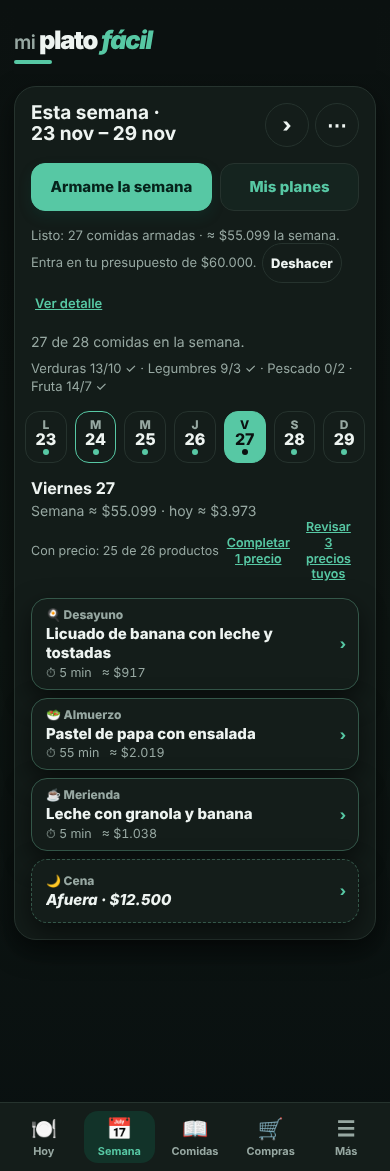
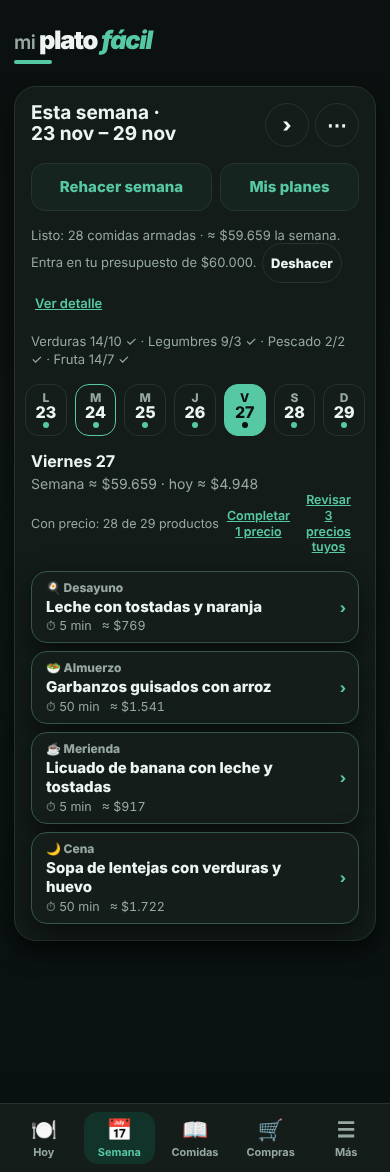
Etapa 48: ajustes de las revisiones (marcas viejas, día siguiente, contador)
Claude-Session: https://claude.ai/code/session_013apjtg9s7WhVBtjMzXPnF4

diff --git a/pruebas/r6e48_semana.js b/pruebas/r6e48_semana.js
@@ -31,7 +31,7 @@
   await abrirHueco("lunes|cena");
   ok("R6-F-01 la hoja de una comida (Semana) tiene 'Pasar a otro día'", !!botonHoja(/^Pasar a otro día$/), H.botonesHoja().join(" | "));
   await tocar(botonHoja(/^Pasar a otro día$/), 300);
-  ok("R6-F-01 'Pasar a otro día' pide día y comida", H.textoHoja().includes("Pasar a otro día") && !!$("hojaPasarDia") && !!$("hojaPasarSlot") && $("hojaPasarDia").value === "lunes" && $("hojaPasarSlot").value === "cena");
+  ok("R6-F-01 'Pasar a otro día' pide día y comida", H.textoHoja().includes("Pasar a otro día") && !!$("hojaPasarDia") && !!$("hojaPasarSlot") && $("hojaPasarDia").value === "martes" && $("hojaPasarSlot").value === "cena");  // arranca en el día siguiente
   await elegirEn("jueves", "cena");
   await tocar(botonHoja(/^Pasar$/), 400);
   const p1 = plan();
@@ -45,6 +45,7 @@
   // mismo hueco: error en la hoja, no cambia nada
   await abrirHueco("miercoles|cena");
   await tocar(botonHoja(/^Pasar a otro día$/), 300);
+  await elegirEn("miercoles", "cena");
   await tocar(botonHoja(/^Pasar$/), 300);
   ok("R6-F-01 pasar al mismo hueco no cambia nada y la hoja explica por qué", /Elegí otro día u otra comida/.test(H.textoHoja()) && JSON.stringify(plan()) === JSON.stringify(p2));
   await H.cerrarHoja();
@@ -96,6 +97,12 @@
   await tocar(botonHoja(/^Guardar$/), 400);
   const itemsDespues = ev("shoppingDisplayItems().map(x => x.name).sort().join(',')"), costoDespues = ev("costoSemanaPlan() && costoSemanaPlan().total");
   ok("R6-F-02 un hueco afuera no suma a la lista ni al presupuesto (los ingredientes de esa comida salen de la lista y el costo baja)", plan().jueves.cena === null && /Lentejas/.test(itemsAntes) && !/Lentejas/.test(itemsDespues) && /Pollo/.test(itemsDespues) && costoDespues < costoAntes, JSON.stringify({ itemsAntes, itemsDespues, costoAntes, costoDespues }));
+  {
+    const todos = []; for (const d of H.DIAS) for (const sl of H.SLOTS) if (!(d === "lunes" && sl === "desayuno")) todos.push([d, sl, A]);
+    await abrir({ [AJ]: JSON.stringify({ [semanaLunes]: { afuera: { "lunes|desayuno": {} } } }) }, todos);
+    const hint = $("planHint");
+    ok("R6-F-02 un hueco afuera cuenta como resuelto en la cabecera de Semana: con 27 comidas y 1 afuera no dice 'faltan' ni '27 de 28', y 'Armame la semana' no pasa a ser el botón principal", hint.hidden && !/27 de 28/.test(norm(hint.innerText)) && !!$("planList"), norm(hint.innerText) + " hidden=" + hint.hidden);
+  }
   await abrir({}, [["lunes", "cena", A]]);
   await abrirHueco("martes|cena"); await tocar(botonHoja(/^Comemos afuera$/), 300); await tocar(botonHoja(/^Guardar$/), 400);
   ev('openTab("semana")'); await espera(200);
@@ -104,12 +111,16 @@
   ok("R6-F-02 Armame la semana no llena un hueco afuera (ni con 'Rehacer semana')", trasArmar.martes.cena === null && !!afueraSigue && trasArmar.lunes.almuerzo !== null && DIAS_OTROS(trasArmar), JSON.stringify(trasArmar.martes));
   function DIAS_OTROS(p) { return ["miercoles", "jueves", "viernes"].every(d => p[d].cena) }
   await ev('(async () => { await ArmameSemana.correr("todo") })()'); await espera(600);
-  ok("R6-F-02 'Rehacer semana' (todo) tampoco lo llena", plan().martes.cena === null && !!J(AJ)[semanaLunes].afuera["martes|cena"]);
+  ok("R6-F-02 'Rehacer semana' (todo) tampoco lo llena", plan().martes.cena === null && !!(J(AJ) || {})[semanaLunes] && !!J(AJ)[semanaLunes].afuera["martes|cena"], JSON.stringify(plan().martes) + " " + localStorage.getItem(AJ));
   // gasto en el Registro, separado de las compras
   await abrir({ ...H.PRES(60000), [AJ]: JSON.stringify({ [semanaLunes]: { afuera: { "jueves|cena": { gasto: 12500 }, "viernes|cena": { gasto: 8000 }, "sabado|almuerzo": {} } } }) });
   ev('openTab("mas"); abrirRegistro()'); await espera(400);
   const registro = norm($("registro").innerText);
   ok("R6-F-02 el Registro muestra el gasto de comidas afuera de la semana, separado de las compras", /Comidas afuera esa semana: 3 · \$20\.500 \(en 1 no lo anotaste\)\. Va aparte de las compras\./.test(registro), registro.slice(registro.indexOf("Comidas afuera") - 20, registro.indexOf("Comidas afuera") + 140));
+  // una marca vieja (el hueco ya tiene comida) no cuenta en el Registro
+  await abrir({ [AJ]: JSON.stringify({ [semanaLunes]: { afuera: { "jueves|cena": { gasto: 999 }, "viernes|cena": {} } } }) }, [["jueves", "cena", A]]);
+  ev('openTab("mas"); abrirRegistro()'); await espera(400);
+  ok("R6-F-02 una marca 'Afuera' vieja (el hueco ya tiene una comida) no cuenta en el Registro", /Comidas afuera esa semana: 1 · sin gasto anotado/.test(norm($("registro").innerText)), norm($("registro").innerText).slice(-200));
   // Ya no comemos afuera
   await abrir({ [AJ]: JSON.stringify({ [semanaLunes]: { afuera: { "jueves|cena": { gasto: 12500 } } } }) });
   await abrirHueco("jueves|cena");

diff --git a/index.html b/index.html
@@ -7102,6 +7102,7 @@ function renderPlan(){
     // (El módulo SemanaAjustes se carga después de este archivo: si todavía no está, no hay marcas.)
     let afuera=0;
     try{afuera=SLOTS.filter(([sl])=>!(plan[key]&&plan[key][sl])&&SemanaAjustes.afuera(key,sl)).length}catch(e){}
+    total+=afuera;
     if(n+afuera>=4)b.classList.add("es-completo");
     return b
   });
@@ -17243,7 +17244,7 @@ var ArmameSemana=(function(){
     for(const [dia] of DAYS)for(const slot of ORDEN){
       const id=(plan[dia]||{})[slot];
       // Etapa 48: un hueco marcado "Afuera" no se llena.
-      if(typeof SemanaAjustes!=="undefined"&&SemanaAjustes.afuera(dia,slot))continue;
+      if(!id&&typeof SemanaAjustes!=="undefined"&&SemanaAjustes.afuera(dia,slot))continue;
       if(modo==="todo"||!id||!items.has(id))aFillar.push([dia,slot])
     }
     const salvo=new Set(aFillar.map(([d,s])=>d+"|"+s)),sem=leerSemana(plan,salvo),memo=new Map(),sd=semilla(modo),r=azar(sd);
@@ -18102,14 +18103,16 @@ cargar(){
     return {}
   }
 },
-guardar(todo){
+guardar(todo,editada){
   for(const k of Object.keys(todo)){
     const w=todo[k];
     if(w.afuera&&!Object.keys(w.afuera).length)delete w.afuera;
     if(w.sobra&&!Object.keys(w.sobra).length)delete w.sobra;
     if(!Object.keys(w).length)delete todo[k]
   }
-  const mantener=Object.keys(todo).sort().reverse().slice(0,12),out=Object.fromEntries(mantener.sort().map(k=>[k,todo[k]]));
+  const mantener=Object.keys(todo).sort().reverse().slice(0,12);
+  if(editada&&todo[editada]&&!mantener.includes(editada))mantener.push(editada);
+  const out=Object.fromEntries(mantener.sort().map(k=>[k,todo[k]]));
   if(!SemanaAjustes.validAjustes(out))throw Error("No se pudo guardar el cambio de la semana.");
   if(Object.keys(out).length)localStorage.setItem(SEMANA_AJUSTES_KEY,JSON.stringify(out));
   else localStorage.removeItem(SEMANA_AJUSTES_KEY)
@@ -18134,7 +18137,18 @@ cambiar(f,lunes){
   todo[k]={
     afuera:act.afuera,sobra:act.sobra
   };
-  SemanaAjustes.guardar(todo)
+  SemanaAjustes.guardar(todo,k)
+},
+// El plan de una semana (para saber qué huecos siguen vacíos): esta, la que viene o una copia fechada; null si no se conoce.
+planDe(lunes){
+  try{
+    if(lunes===Semana.semanaActual())return Semana.planDeLaSemana("esta");
+    if(lunes===Semana.lunesSiguiente())return Semana.planDeLaSemana("proxima");
+    const w=loadDatedWeeks()[lunes];
+    return w&&w.plan?Semana.migratePlan(w.plan):null
+  }catch(e){
+    return null
+  }
 },
 // ---- Afuera ----
 afuera(dia,slot,lunes){
@@ -18188,7 +18202,7 @@ limpiarAfuera(dia,slot){
 },
 // El gasto de comidas afuera de una semana, aparte de las compras: {cantidad, total, sinGasto}.
 resumenAfuera(lunes){
-  const h=SemanaAjustes.huecosAfuera(lunes,null);
+  const h=SemanaAjustes.huecosAfuera(lunes||SemanaAjustes.lunesDelContexto(),SemanaAjustes.planDe(lunes||SemanaAjustes.lunesDelContexto()));
   return {
     cantidad:h.length,total:h.reduce((t,x)=>t+(x.gasto||0),0),sinGasto:h.filter(x=>x.gasto===null).length
   }
@@ -18306,7 +18320,8 @@ abrirPasar(dia,slot){
   const plan=loadPlan();
   if(!(plan[dia]||{})[slot])return;
   const fila=ce("div","pantry-item-qty");
-  fila.append(Comidas.campoDeHoja("hojaPasarDia","Día",DAYS,dia),Comidas.campoDeHoja("hojaPasarSlot","Comida",SLOTS.map(([v,t])=>[v,t.replace(/^\S+\s/,"")]),slot));
+  // Arranca en el día siguiente (el domingo, en el lunes): así el primer "Pasar" que se toca ya hace algo.
+  fila.append(Comidas.campoDeHoja("hojaPasarDia","Día",DAYS,SemanaAjustes.diaSiguiente(dia)||"lunes"),Comidas.campoDeHoja("hojaPasarSlot","Comida",SLOTS.map(([v,t])=>[v,t.replace(/^\S+\s/,"")]),slot));
   // Si algo no se puede (por ejemplo, el mismo hueco), la hoja muestra el motivo y queda abierta.
   hoja.abrir({
     titulo:"Pasar a otro día",contenido:[fila],botones:[["Pasar","button--primary",()=>{

diff --git a/fuente/codigo/48-semana-ajustes.js b/fuente/codigo/48-semana-ajustes.js
@@ -28,14 +28,16 @@ cargar(){
     return {}
   }
 },
-guardar(todo){
+guardar(todo,editada){
   for(const k of Object.keys(todo)){
     const w=todo[k];
     if(w.afuera&&!Object.keys(w.afuera).length)delete w.afuera;
     if(w.sobra&&!Object.keys(w.sobra).length)delete w.sobra;
     if(!Object.keys(w).length)delete todo[k]
   }
-  const mantener=Object.keys(todo).sort().reverse().slice(0,12),out=Object.fromEntries(mantener.sort().map(k=>[k,todo[k]]));
+  const mantener=Object.keys(todo).sort().reverse().slice(0,12);
+  if(editada&&todo[editada]&&!mantener.includes(editada))mantener.push(editada);
+  const out=Object.fromEntries(mantener.sort().map(k=>[k,todo[k]]));
   if(!SemanaAjustes.validAjustes(out))throw Error("No se pudo guardar el cambio de la semana.");
   if(Object.keys(out).length)localStorage.setItem(SEMANA_AJUSTES_KEY,JSON.stringify(out));
   else localStorage.removeItem(SEMANA_AJUSTES_KEY)
@@ -60,7 +62,18 @@ cambiar(f,lunes){
   todo[k]={
     afuera:act.afuera,sobra:act.sobra
   };
-  SemanaAjustes.guardar(todo)
+  SemanaAjustes.guardar(todo,k)
+},
+// El plan de una semana (para saber qué huecos siguen vacíos): esta, la que viene o una copia fechada; null si no se conoce.
+planDe(lunes){
+  try{
+    if(lunes===Semana.semanaActual())return Semana.planDeLaSemana("esta");
+    if(lunes===Semana.lunesSiguiente())return Semana.planDeLaSemana("proxima");
+    const w=loadDatedWeeks()[lunes];
+    return w&&w.plan?Semana.migratePlan(w.plan):null
+  }catch(e){
+    return null
+  }
 },
 // ---- Afuera ----
 afuera(dia,slot,lunes){
@@ -114,7 +127,7 @@ limpiarAfuera(dia,slot){
 },
 // El gasto de comidas afuera de una semana, aparte de las compras: {cantidad, total, sinGasto}.
 resumenAfuera(lunes){
-  const h=SemanaAjustes.huecosAfuera(lunes,null);
+  const h=SemanaAjustes.huecosAfuera(lunes||SemanaAjustes.lunesDelContexto(),SemanaAjustes.planDe(lunes||SemanaAjustes.lunesDelContexto()));
   return {
     cantidad:h.length,total:h.reduce((t,x)=>t+(x.gasto||0),0),sinGasto:h.filter(x=>x.gasto===null).length
   }
@@ -232,7 +245,8 @@ abrirPasar(dia,slot){
   const plan=loadPlan();
   if(!(plan[dia]||{})[slot])return;
   const fila=ce("div","pantry-item-qty");
-  fila.append(Comidas.campoDeHoja("hojaPasarDia","Día",DAYS,dia),Comidas.campoDeHoja("hojaPasarSlot","Comida",SLOTS.map(([v,t])=>[v,t.replace(/^\S+\s/,"")]),slot));
+  // Arranca en el día siguiente (el domingo, en el lunes): así el primer "Pasar" que se toca ya hace algo.
+  fila.append(Comidas.campoDeHoja("hojaPasarDia","Día",DAYS,SemanaAjustes.diaSiguiente(dia)||"lunes"),Comidas.campoDeHoja("hojaPasarSlot","Comida",SLOTS.map(([v,t])=>[v,t.replace(/^\S+\s/,"")]),slot));
   // Si algo no se puede (por ejemplo, el mismo hueco), la hoja muestra el motivo y queda abierta.
   hoja.abrir({
     titulo:"Pasar a otro día",contenido:[fila],botones:[["Pasar","button--primary",()=>{

diff --git a/fuente/codigo/45-armame-la-semana.js b/fuente/codigo/45-armame-la-semana.js
@@ -219,7 +219,7 @@ var ArmameSemana=(function(){
     for(const [dia] of DAYS)for(const slot of ORDEN){
       const id=(plan[dia]||{})[slot];
       // Etapa 48: un hueco marcado "Afuera" no se llena.
-      if(typeof SemanaAjustes!=="undefined"&&SemanaAjustes.afuera(dia,slot))continue;
+      if(!id&&typeof SemanaAjustes!=="undefined"&&SemanaAjustes.afuera(dia,slot))continue;
       if(modo==="todo"||!id||!items.has(id))aFillar.push([dia,slot])
     }
     const salvo=new Set(aFillar.map(([d,s])=>d+"|"+s)),sem=leerSemana(plan,salvo),memo=new Map(),sd=semilla(modo),r=azar(sd);

diff --git a/fuente/codigo/10-plan-semanal.js b/fuente/codigo/10-plan-semanal.js
@@ -856,6 +856,7 @@ function renderPlan(){
     // (El módulo SemanaAjustes se carga después de este archivo: si todavía no está, no hay marcas.)
     let afuera=0;
     try{afuera=SLOTS.filter(([sl])=>!(plan[key]&&plan[key][sl])&&SemanaAjustes.afuera(key,sl)).length}catch(e){}
+    total+=afuera;
     if(n+afuera>=4)b.classList.add("es-completo");
     return b
   });

diff --git a/docs/plan-rediseno.md b/docs/plan-rediseno.md
@@ -3363,4 +3363,6 @@ Rama `rediseno-6-etapa-48-semana`. Ítems: F-01, F-02, F-03 y F-04. Antes de emp
 - ✅ R6-F-02: "Comemos afuera" (en la hoja de un hueco vacío o con comida: en ese caso avisa que la saca). El hueco se lee "Afuera" (borde punteado, y "Afuera · $12.500" si se anotó el gasto, opcional) en Semana, en Semanas anteriores y en Hoy; no suma a la lista ni al presupuesto (el hueco queda vacío en el plan, así que los ingredientes salen de la lista y el costo baja) y Armame, también "Rehacer semana", no lo llena. Tocarlo abre su hoja: gasto, "Ya no comemos afuera" (borra la marca y, si no queda nada, la clave) o "Elegir una comida" (al elegirla, deja de ser afuera). El Registro suma, debajo del gráfico de gasto, "Comidas afuera esa semana: 3 · $20.500 (en 1 no lo anotaste). Va aparte de las compras." (no se suma al gasto de Compras realizadas).
 - ✅ R6-F-03: "Que sobre para mañana" (almuerzo y cena, menos el domingo): pone la misma comida en el almuerzo de mañana con la marca "Sobra de la cena del lunes" (o "Sobra del almuerzo del lunes"). Si mañana tenía otra comida, la hoja pregunta "¿Querés reemplazarlo?" (Reemplazar / No, dejarlo) y no cambia nada hasta confirmar. Como "cociná doble" de Armame, es la misma comida en dos huecos, así que la lista suma las cantidades de los dos (200 g + 200 g). (Decisión) El domingo no ofrece el botón: no hay "mañana" en la misma semana (la semana que viene es otro plan).
 - ✅ R6-F-04: el plan guardado no cambia (día → comida → id o nulo); "Afuera" y "Sobra de…" viven en `miPlatoFacil_semanaAjustes_v1` = `{lunes: {afuera: {"jueves|cena": {gasto?}}, sobra: {"martes|almuerzo": "lunes|cena"}}}`, una entrada por semana (la de la copia fechada, la que viene o esta), opcional en el respaldo (se exporta, se restaura, un respaldo viejo sin ella se restaura igual y uno con formato malo se rechaza). (Decisión) Una marca "afuera" solo vale mientras el hueco está vacío y una marca "sobra" solo mientras los dos huecos tienen la misma comida: si se cambia el plan por otro camino (Armame, planes guardados, Quitar), la marca deja de verse sola sin tener que limpiar nada. "Empezar de nuevo" no borra las marcas "Afuera" (Deshacer devuelve el plan tal cual).
-- Prueba adaptada (mismo commit): `r5e35_semanas.js` (R5-S-05) esperaba la lista exacta de botones de la hoja; ahora ignora los tres nuevos (Pasar a otro día, Que sobre para mañana y Comemos afuera). Pruebas nuevas: `r6e48_semana.js` (36). Lección de orden de carga: `SemanaAjustes` se declara después de `10-plan-semanal.js`; el código de arranque que pinta la semana lo consulta con `try` o `typeof` (si no, `?ir=semana-proxima` fallaba: la prueba R4-32 lo mostró).
+- Prueba adaptada (mismo commit): `r5e35_semanas.js` (R5-S-05) esperaba la lista exacta de botones de la hoja; ahora ignora los tres nuevos (Pasar a otro día, Que sobre para mañana y Comemos afuera). Pruebas nuevas: `r6e48_semana.js` (38). Lección de orden de carga: `SemanaAjustes` se declara después de `10-plan-semanal.js`; el código de arranque que pinta la semana lo consulta con `try` o `typeof` (si no, `?ir=semana-proxima` fallaba: la prueba R4-32 lo mostró).
+- Revisiones: `revisor-codigo` NO BLOQUEANTE y `revisor-usuario` NO BLOQUEANTE (4 de 4 HECHO). Se aplicó: "Pasar a otro día" arranca en el día siguiente (antes el primer "Pasar" no hacía nada); un hueco afuera cuenta como resuelto en "N de 28 comidas" y en el botón "Armame la semana"; una marca "Afuera" vieja (el hueco ya tiene comida) no cuenta en el Registro y Armame la ignora si el hueco está lleno (`huecosAfuera`/`resumenAfuera` miran el plan de esa semana: esta, la que viene o la copia fechada); `guardar` nunca recorta la semana que se acaba de editar. **Quedan como están** (sugerencias menores del revisor): pasar o "que sobre" sobre un destino marcado "Afuera" borra esa marca (y su gasto) sin avisar, y Deshacer devuelve el plan pero no la marca; `savePlanPortions` que falla por cuota no avisa (mismo patrón que `setSlot`); una semana mal formada en la clave hace que se descarte la clave entera (validación estricta: una versión futura que agregue campos tendría que subir el nombre de la clave); la hoja del hueco pasó de 5 a 8 botones (la ordena la Etapa 53, O-03).
+**Pendientes para vos (Etapa 48):** decidir si querés agrupar "Pasar a otro día", "Que sobre para mañana" y "Comemos afuera" en la hoja del hueco (hoy son botones sueltos) o sacar "Cambiar por otra parecida"; y si "Ya no comemos afuera" debería recordar el gasto.
